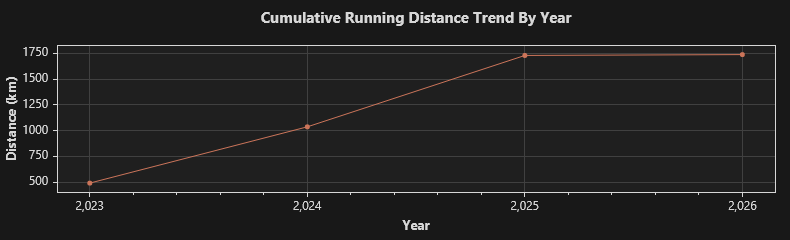
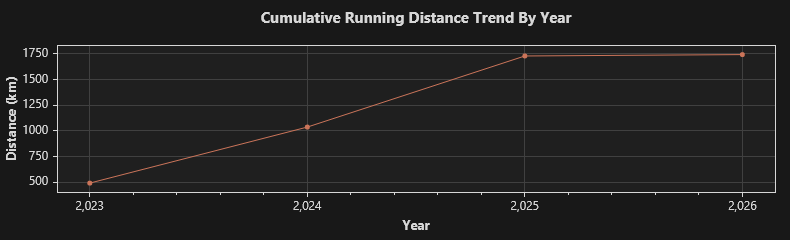
2026/1/13 跑步 5.02 公里

diff --git a/trend.md b/trend.md
@@ -1,4 +1,4 @@
-### Total: 293 days, 1737.23 km.
+### Total: 294 days, 1742.25 km.
 
 
 ![Monthly](https://github.com/prime167/MyRunningLog/blob/main/data/CumulativeTrendByMonth.png)
